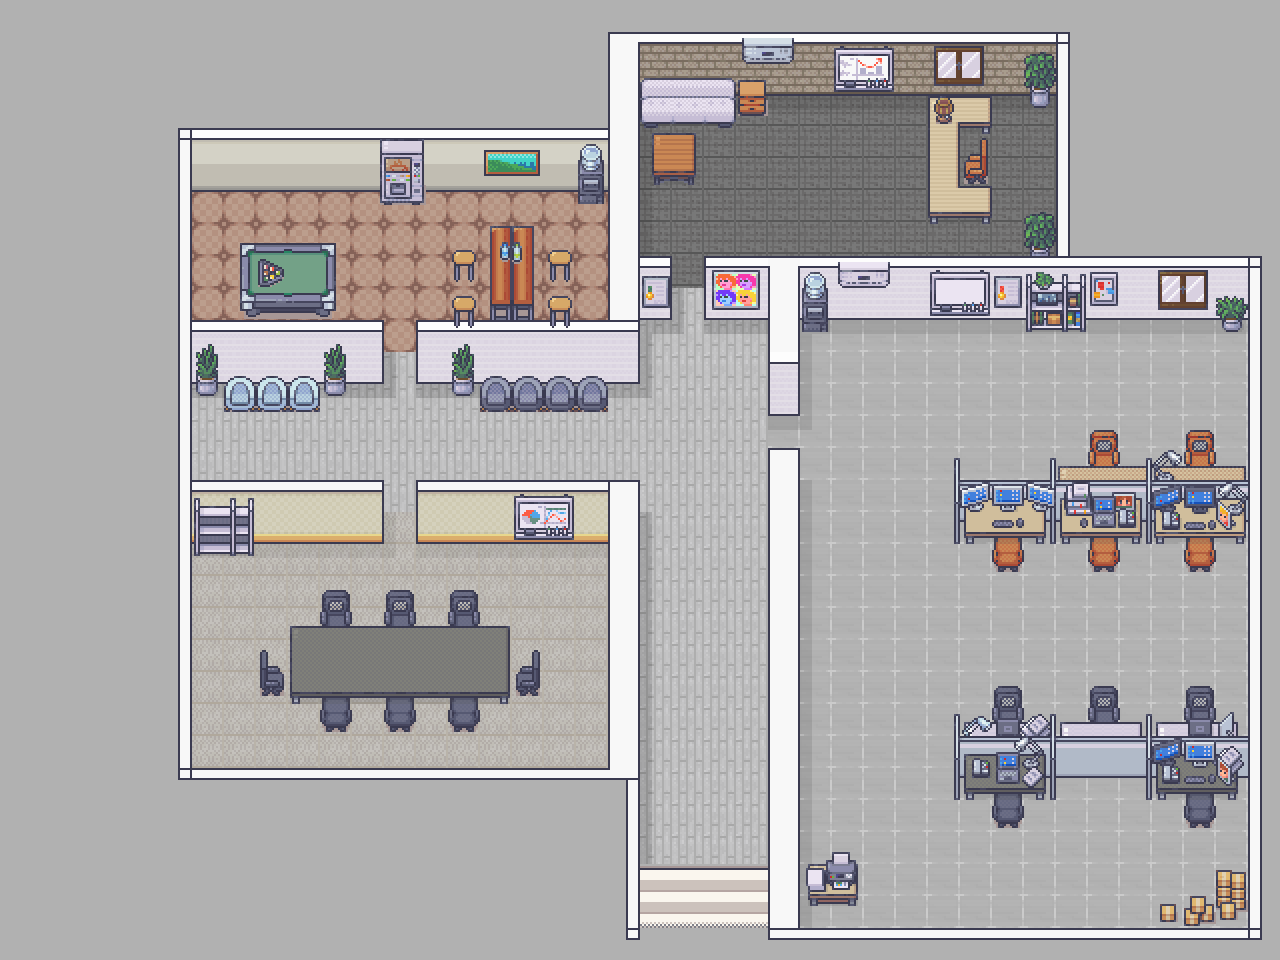
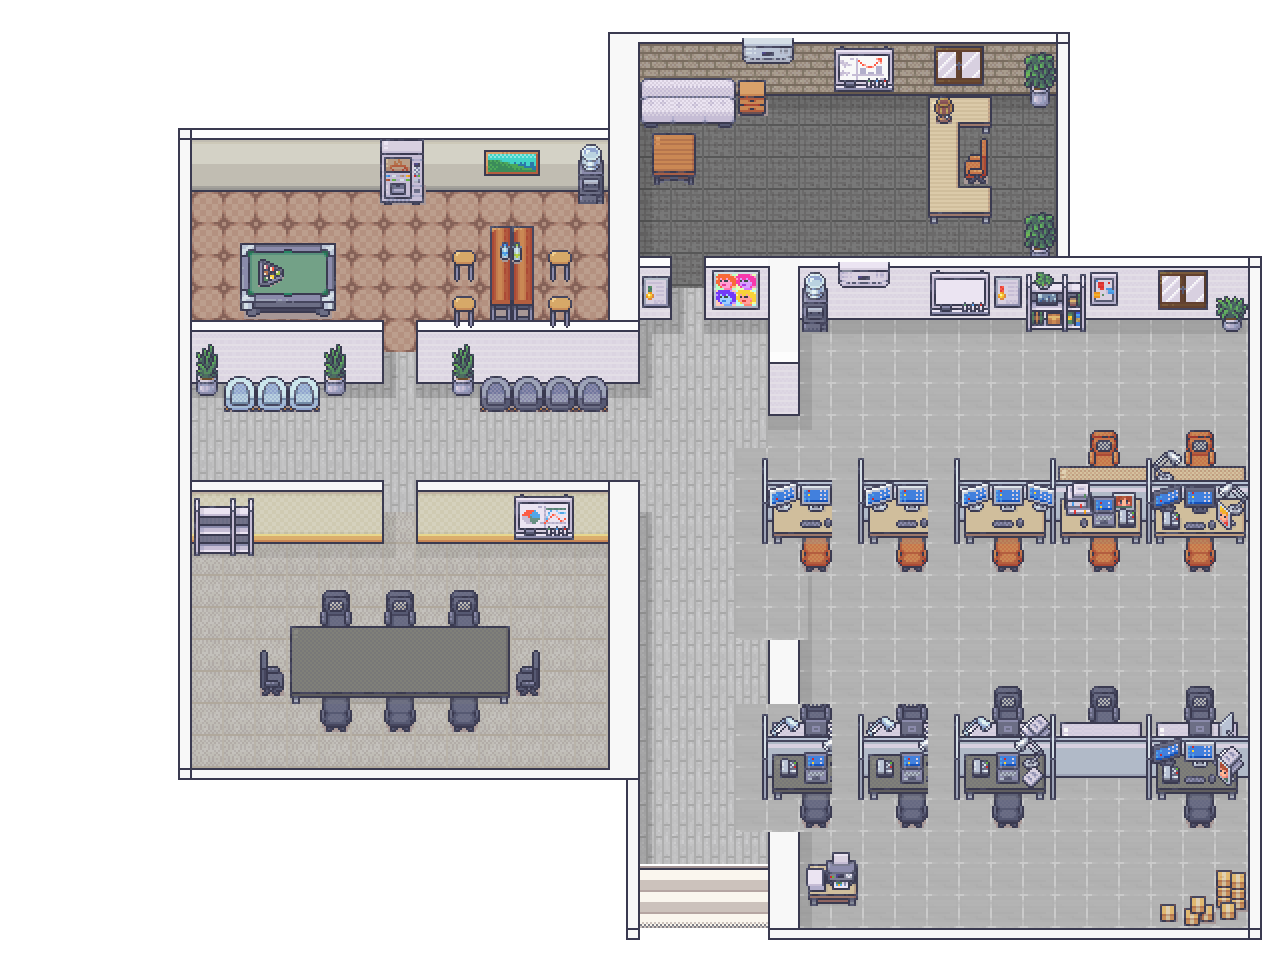
v203: 7 agents office area + expanded desks + camera shift right
- K哥 coordinates applied: 4+3 layout in office area
- Tilemap background expanded with extra desks at x=736,832
- Camera centerOn shifted right+down to show all labels
- K哥 label no longer clipped

diff --git a/frontend/index.html b/frontend/index.html
@@ -4431,7 +4431,7 @@ function toggleBrokerPanel() {
 
                 camera.setZoom(candidateZoom);
                 // 始终居中显示完整地图
-                camera.centerOn(MAP_W / 2, MAP_H / 2);
+                camera.centerOn(MAP_W / 2 + 80, MAP_H / 2 + 40);
             }
             applyMobileCameraFit();
 
@@ -4444,7 +4444,8 @@ function toggleBrokerPanel() {
             }
 
             camera.setBounds(-100, -80, 1580, 1120);
-            clampCameraScroll();
+            // centerOn after bounds to shift view toward office area
+            camera.centerOn(MAP_W / 2 + 80, MAP_H / 2 + 40);
 
             function setPanEnabled(on) {
                 panEnabled = on;
@@ -4566,16 +4567,16 @@ function toggleBrokerPanel() {
 
             // === 7 个 agent 固定工位（Phaser 画布内直接渲染）===
             const DESK_AGENTS = [
-                // 全部集中在办公区 — 4+3 布局（K哥 指定坐标）
+                // 全部集中在办公区 — 4+3 布局
                 // 上排 4人
-                { id: 'sky',      name: 'Sky 🌤',  char: 'adam',  x: 700,  y: 550 },
-                { id: 'cto',      name: 'Pin哥 📌', char: 'lucy',  x: 850,  y: 550 },
-                { id: 'frontend', name: 'Jr 🎨',    char: 'ash',   x: 1000, y: 550 },
+                { id: 'backend',  name: '波哥 🌊',  char: 'adam',  x: 700,  y: 550 },
+                { id: 'sky',      name: 'Sky 🌤',  char: 'adam',  x: 850,  y: 550 },
+                { id: 'cto',      name: 'Pin哥 📌', char: 'lucy',  x: 1000, y: 550 },
                 { id: 'manager',  name: 'K哥 📋',   char: 'ash',   x: 1150, y: 550 },
                 // 下排 3人
-                { id: 'backend',  name: '波哥 🌊',  char: 'adam',  x: 700,  y: 750 },
-                { id: 'devops',   name: 'Max 🔧',   char: 'nancy', x: 850,  y: 750 },
-                { id: 'qa',       name: 'Yang 🧪',  char: 'lucy',  x: 1000, y: 750 },
+                { id: 'devops',   name: 'Max 🔧',   char: 'nancy', x: 700,  y: 700 },
+                { id: 'frontend', name: 'Jr 🎨',    char: 'ash',   x: 850,  y: 700 },
+                { id: 'qa',       name: 'Yang 🧪',  char: 'lucy',  x: 1000, y: 700 },
             ];
 
             // 创建原版角色动画（atlas 格式）
